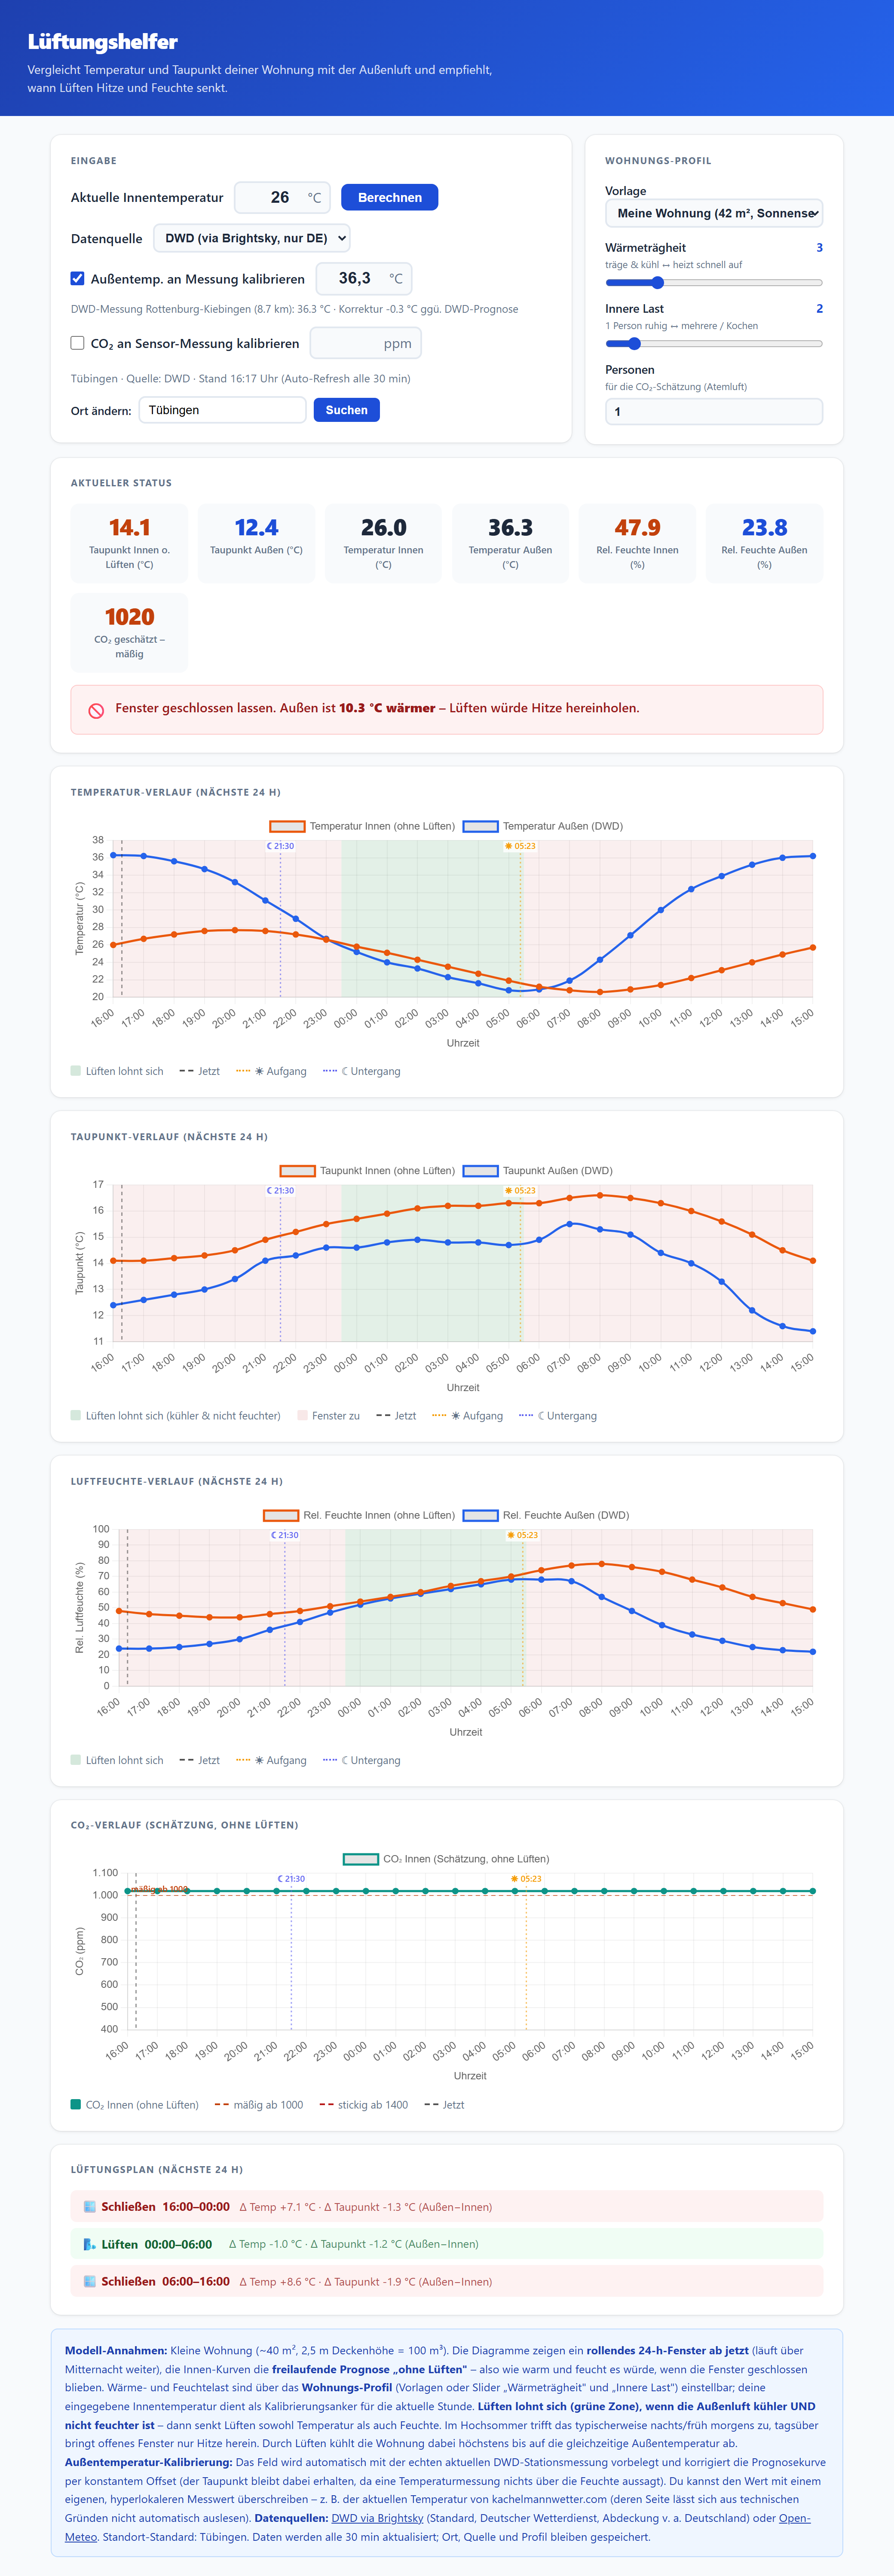
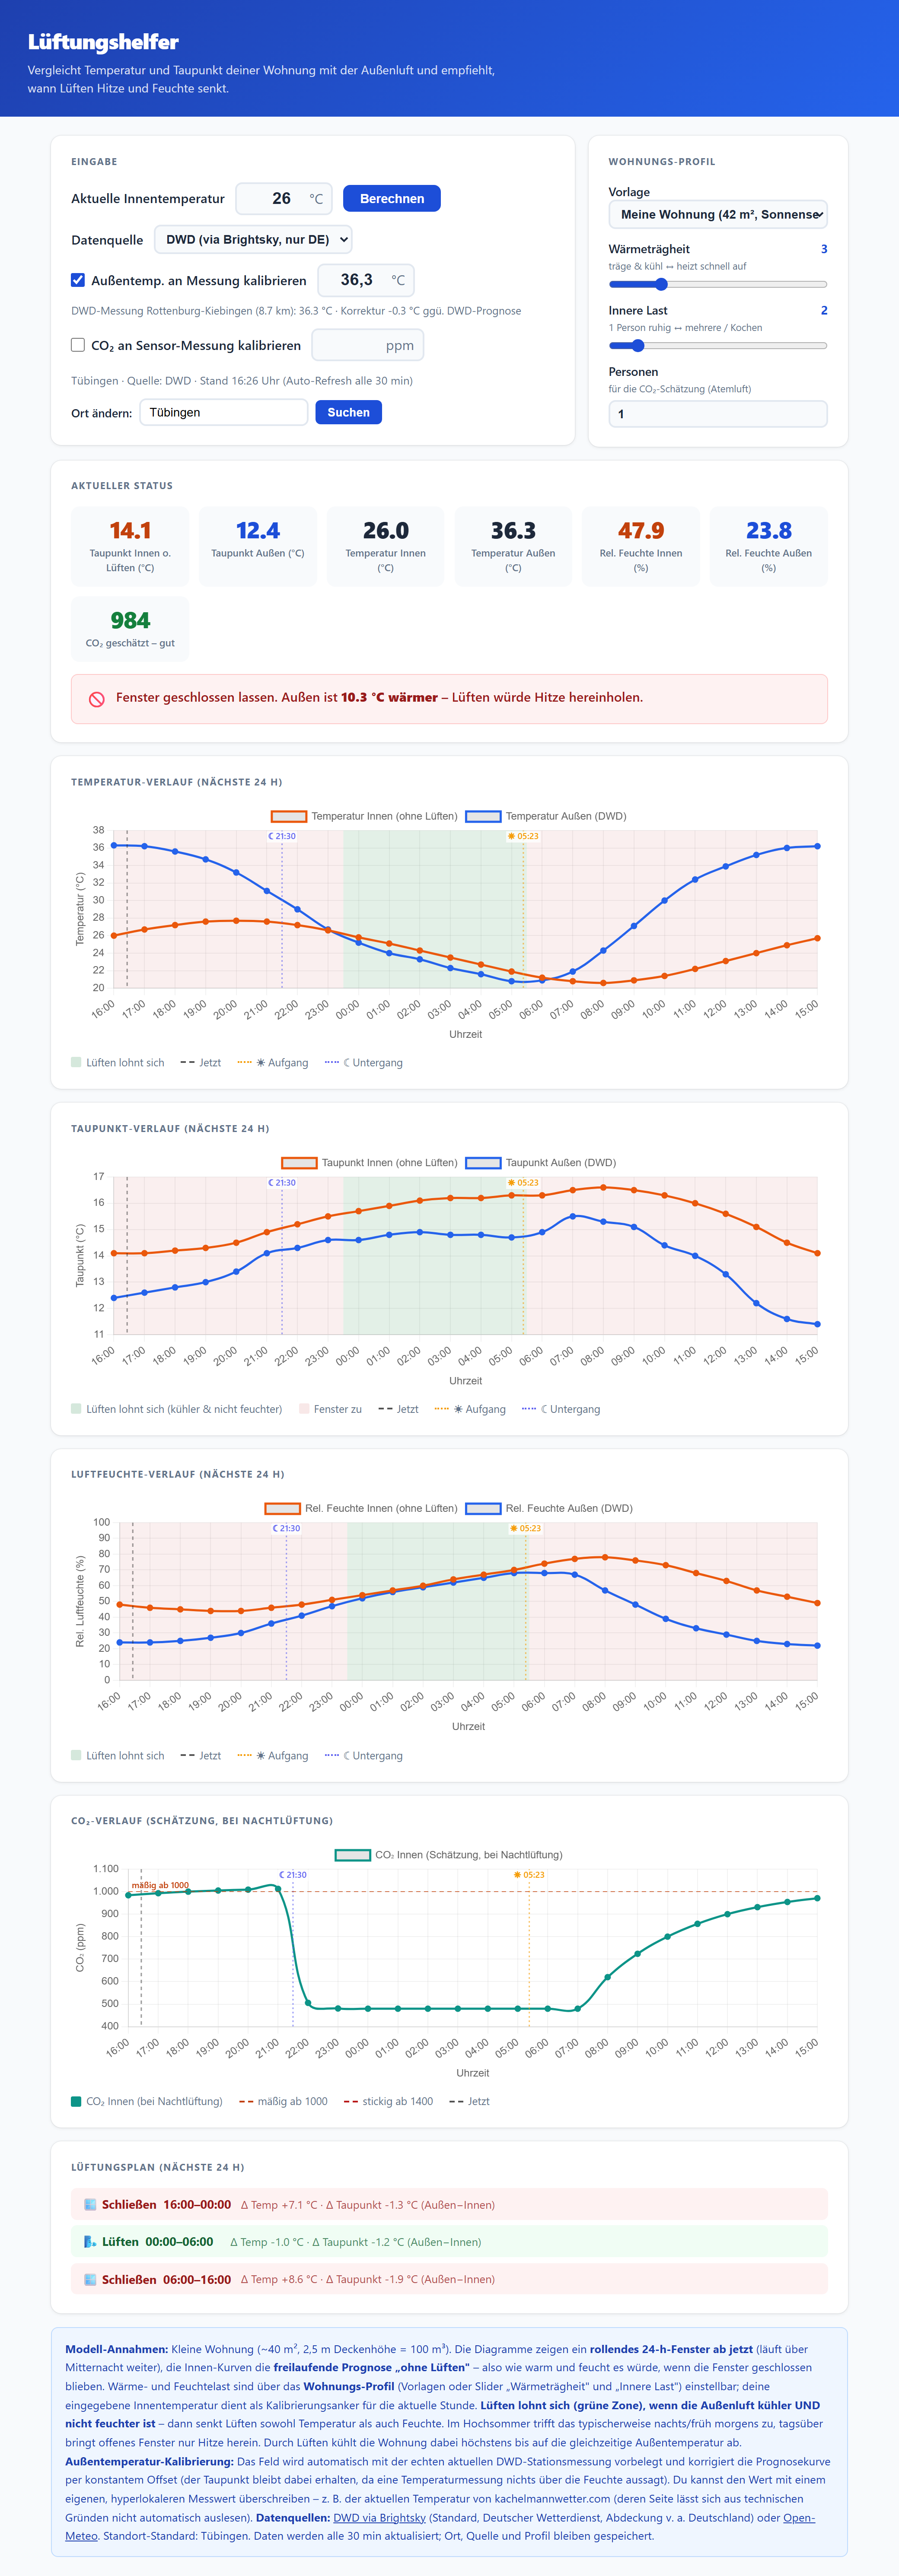
CO2-Kurve dynamisch: Aufbau tagsüber, Reset bei Nachtlüftung
Bisher war die CO2-Schätzung konstant (Gleichgewicht, da konstante Belegung
und keine Lüftung). Jetzt wird die Nachtlüftungs-Routine modelliert:

- Fenster offen 22–08 Uhr → hoher Luftwechsel, CO2 fällt fast auf außen;
  tagsüber (zu) nur Grundinfiltration → CO2 baut sich Richtung ~1020 ppm auf
- Pro Stunde exakte Lösung der Bilanz-DGL (stabil auch bei hohem Luftwechsel,
  explizites Euler würde bei ACH 3 oszillieren)
- Diagramm/Legende umbenannt: "bei Nachtlüftung" statt "ohne Lüften"
- Test auf das dynamische Verhalten (Tag-Aufbau > Nacht-Reset) angepasst
- README + Screenshot aktualisiert

diff --git a/index.html b/index.html
@@ -273,10 +273,10 @@
 
     <!-- CO₂-Diagramm -->
     <div class="card" id="card-co2" style="display:none">
-        <div class="card-title">CO₂-Verlauf (Schätzung, ohne Lüften)</div>
+        <div class="card-title">CO₂-Verlauf (Schätzung, bei Nachtlüftung)</div>
         <div class="chart-wrap"><canvas id="co2-chart"></canvas></div>
         <div class="legend">
-            <span class="legend-item"><span class="dot" style="background:#0d9488"></span>CO₂ Innen (ohne Lüften)</span>
+            <span class="legend-item"><span class="dot" style="background:#0d9488"></span>CO₂ Innen (bei Nachtlüftung)</span>
             <span class="legend-item"><span style="display:inline-block;width:16px;height:0;border-top:2px dashed #c2410c"></span>mäßig ab 1000</span>
             <span class="legend-item"><span style="display:inline-block;width:16px;height:0;border-top:2px dashed #b91c1c"></span>stickig ab 1400</span>
             <span class="legend-item"><span style="display:inline-block;width:16px;height:0;border-top:2px dashed #555"></span>Jetzt</span>
@@ -382,8 +382,10 @@ const profile = {
 };
 
 // CO₂: Außenbasis ~420 ppm; eine ruhende Person erzeugt ~18 L/h CO₂,
-// in ~100 m³ ≈ 180 ppm/h. Gleichgewicht ohne Lüften ≈ 420 + Erzeugung/INFILTR.
+// in ~100 m³ ≈ 180 ppm/h. Bei Nachtlüftung (Fenster offen 22–08 Uhr) hoher
+// Luftwechsel → CO₂ fällt fast auf außen; tagsüber (zu) baut es sich auf.
 const CO2_OUT = 420, CO2_PER_PERSON = 180;
+const CO2_OPEN_H = 22, CO2_CLOSE_H = 8, CO2_ACH_OPEN = 3.0;
 
 // outT/outRH sind die VOLLEN Arrays; anchorIdx = Index der aktuellen Stunde
 // (Kalibrierungsanker). Die Simulation läuft über den ganzen Bereich, damit
@@ -420,14 +422,22 @@ function simulate(outT, outRH, userT, anchorIdx) {
     const inRH = inT.map((t, i) => relHum(t, inAH[i]));
     const inDP = inT.map((t, i) => dewPoint(t, inRH[i]));
 
-    // ── CO₂ ohne Lüften ──
-    // Gleiche Bilanz wie die Feuchte: Personen erzeugen CO₂, die Grundinfiltration
-    // gleicht langsam Richtung Außenluft (~420 ppm) aus.
-    const co2Gen = profile.persons * CO2_PER_PERSON;
+    // ── CO₂ bei Nachtlüftung ──
+    // Personen erzeugen CO₂; der Luftwechsel führt es Richtung Außenluft ab.
+    // Nachts (Fenster offen) ist der Luftwechsel hoch → CO₂ fällt fast auf außen,
+    // tagsüber (zu) nur Grundinfiltration → CO₂ baut sich auf.
+    // Pro Stunde wird die EXAKTE Lösung verwendet (stabil auch bei hohem Luftwechsel):
+    //   C(t+1) = C_eq + (C(t) − C_eq)·e^(−ach),  C_eq = außen + Erzeugung/ach
+    const co2Gen   = profile.persons * CO2_PER_PERSON;
+    const co2IsOpen = i => { const hr = i % 24; return hr >= CO2_OPEN_H || hr < CO2_CLOSE_H; };
+    const co2Step  = (prev, ach) => {
+        const eq = CO2_OUT + co2Gen / ach;
+        return eq + (prev - eq) * Math.exp(-ach);
+    };
     const inCO2 = new Array(n);
-    inCO2[0] = CO2_OUT + co2Gen / INFILTR;
+    inCO2[0] = CO2_OUT + co2Gen / (co2IsOpen(0) ? CO2_ACH_OPEN : INFILTR);
     for (let h = 1; h < n; h++)
-        inCO2[h] = inCO2[h-1] + co2Gen - INFILTR * (inCO2[h-1] - CO2_OUT);
+        inCO2[h] = co2Step(inCO2[h-1], co2IsOpen(h) ? CO2_ACH_OPEN : INFILTR);
 
     return { inT, inRH, inDP, outDP, outAH, inAH, inCO2 };
 }
@@ -880,7 +890,7 @@ function buildCo2Chart(labels, inCO2) {
         data: {
             labels,
             datasets: [{
-                label: 'CO₂ Innen (Schätzung, ohne Lüften)',
+                label: 'CO₂ Innen (Schätzung, bei Nachtlüftung)',
                 data: inCO2.map(v => Math.round(v)),
                 borderColor: '#0d9488', pointBackgroundColor: '#0d9488',
                 borderWidth: 2.5, pointRadius: 2.5, pointHoverRadius: 5, tension: 0.4

diff --git a/README.md b/README.md
@@ -15,7 +15,7 @@ Eine kleine Single-Page-Web-App, die abschätzt, **wann sich Lüften lohnt** –
 - **Lüften-Empfehlung** je Stunde: grün, wenn die Außenluft **kühler UND nicht feuchter** ist (senkt dann Temperatur *und* Feuchte), sonst „Fenster zu". Basiert auf Taupunkt (Feuchte) *und* Temperatur.
 - **Rollendes 24-h-Fenster** ab der aktuellen Stunde (läuft über Mitternacht weiter) – für Taupunkt- und Temperaturverlauf sowie einen Lüftungsplan.
 - **Sonnenauf- und -untergang** als Markierung in den Diagrammen (lokal berechnet).
-- **CO₂-Schätzung** (Luftqualität): eigenes Diagramm mit Schwellenlinien, Status-Ampel und – bei stickiger Luft – ein „kurz stoßlüften"-Hinweis (unabhängig von der Hitze-Empfehlung). Skaliert mit der Personenzahl; optional auf einen gemessenen Sensorwert kalibrierbar.
+- **CO₂-Schätzung** (Luftqualität): eigenes Diagramm (zeigt den Aufbau über den geschlossenen Tag und den Reset bei Nachtlüftung) mit Schwellenlinien, Status-Ampel und – bei stickiger Luft – ein „kurz stoßlüften"-Hinweis (unabhängig von der Hitze-Empfehlung). Skaliert mit der Personenzahl; optional auf einen gemessenen Sensorwert kalibrierbar.
 - **Live-Wetterdaten** aus zwei Quellen: **DWD** (über [Brightsky](https://brightsky.dev), Standard, v. a. Deutschland) oder [Open-Meteo](https://open-meteo.com). Standort-Standard: Tübingen, beliebiger Ort per Suche.
 - **Kalibrierung** der Außentemperatur auf eine echte Messung: automatisch mit der aktuellen DWD-Stationsmessung vorbelegt, manuell überschreibbar (Offset-Korrektur, Taupunkt bleibt erhalten).
 - **Einstellbares Wohnungs-Profil** (Vorlagen + Slider für Wärmeträgheit und innere Last, Personenzahl).